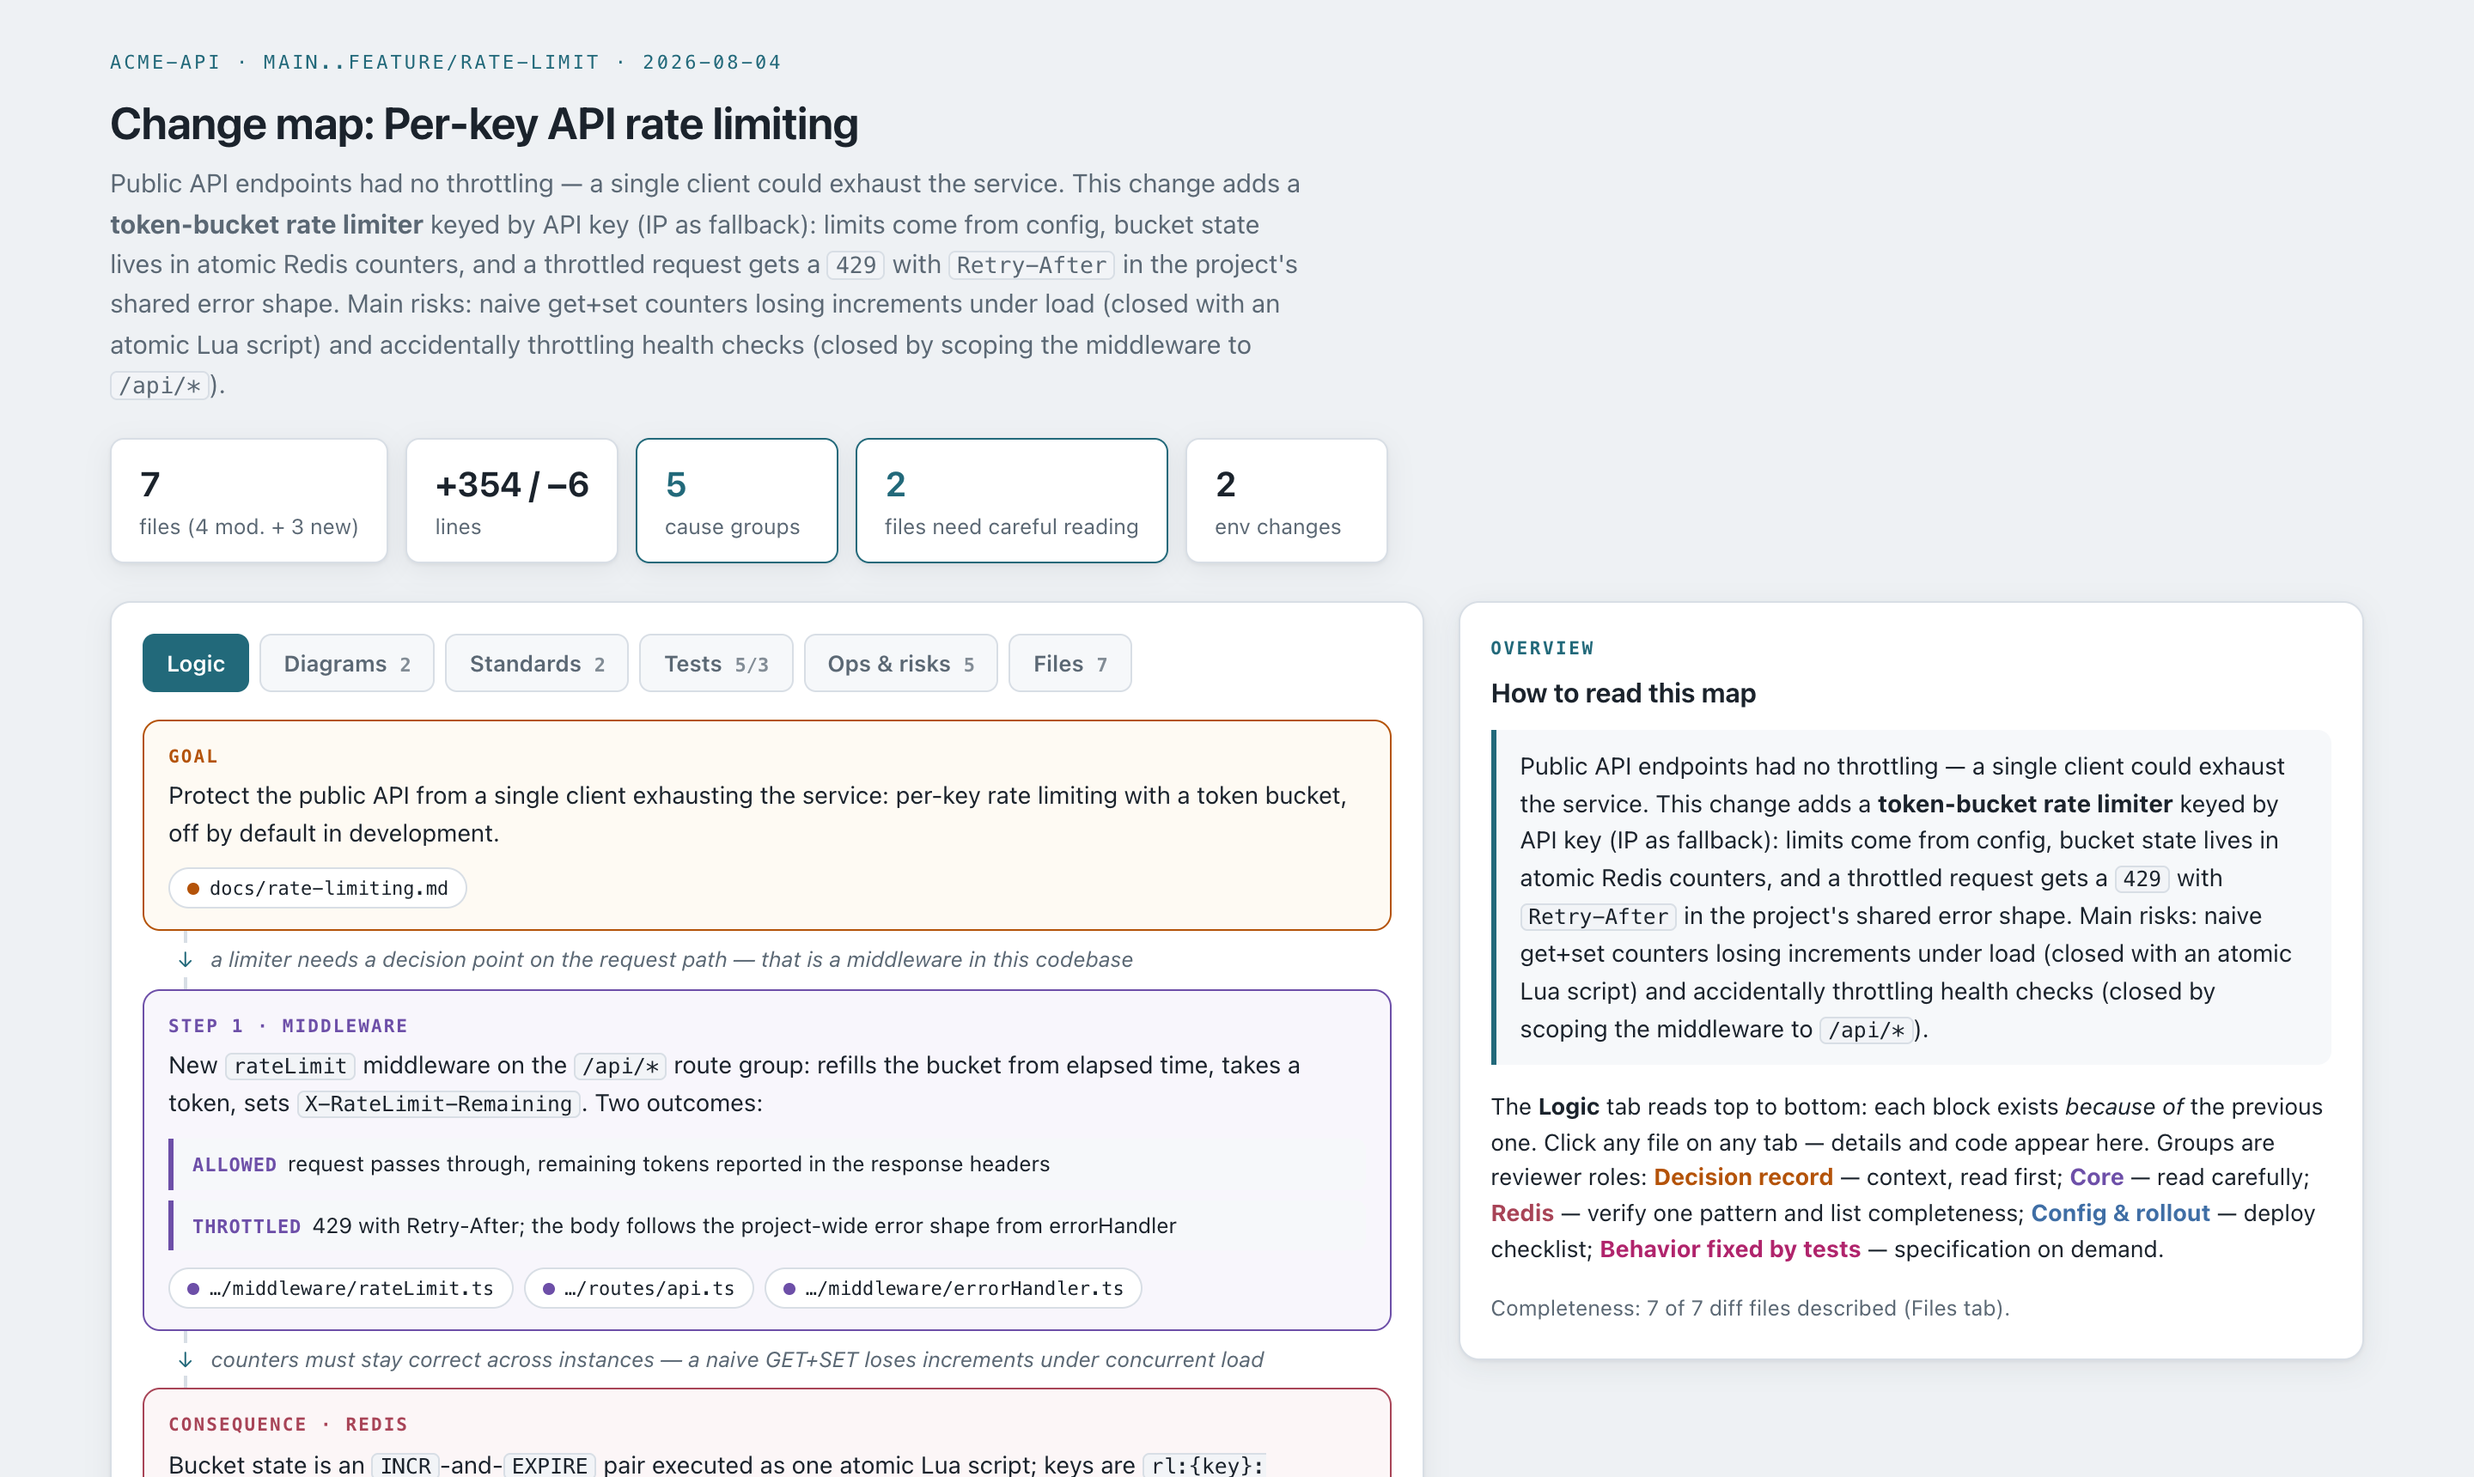
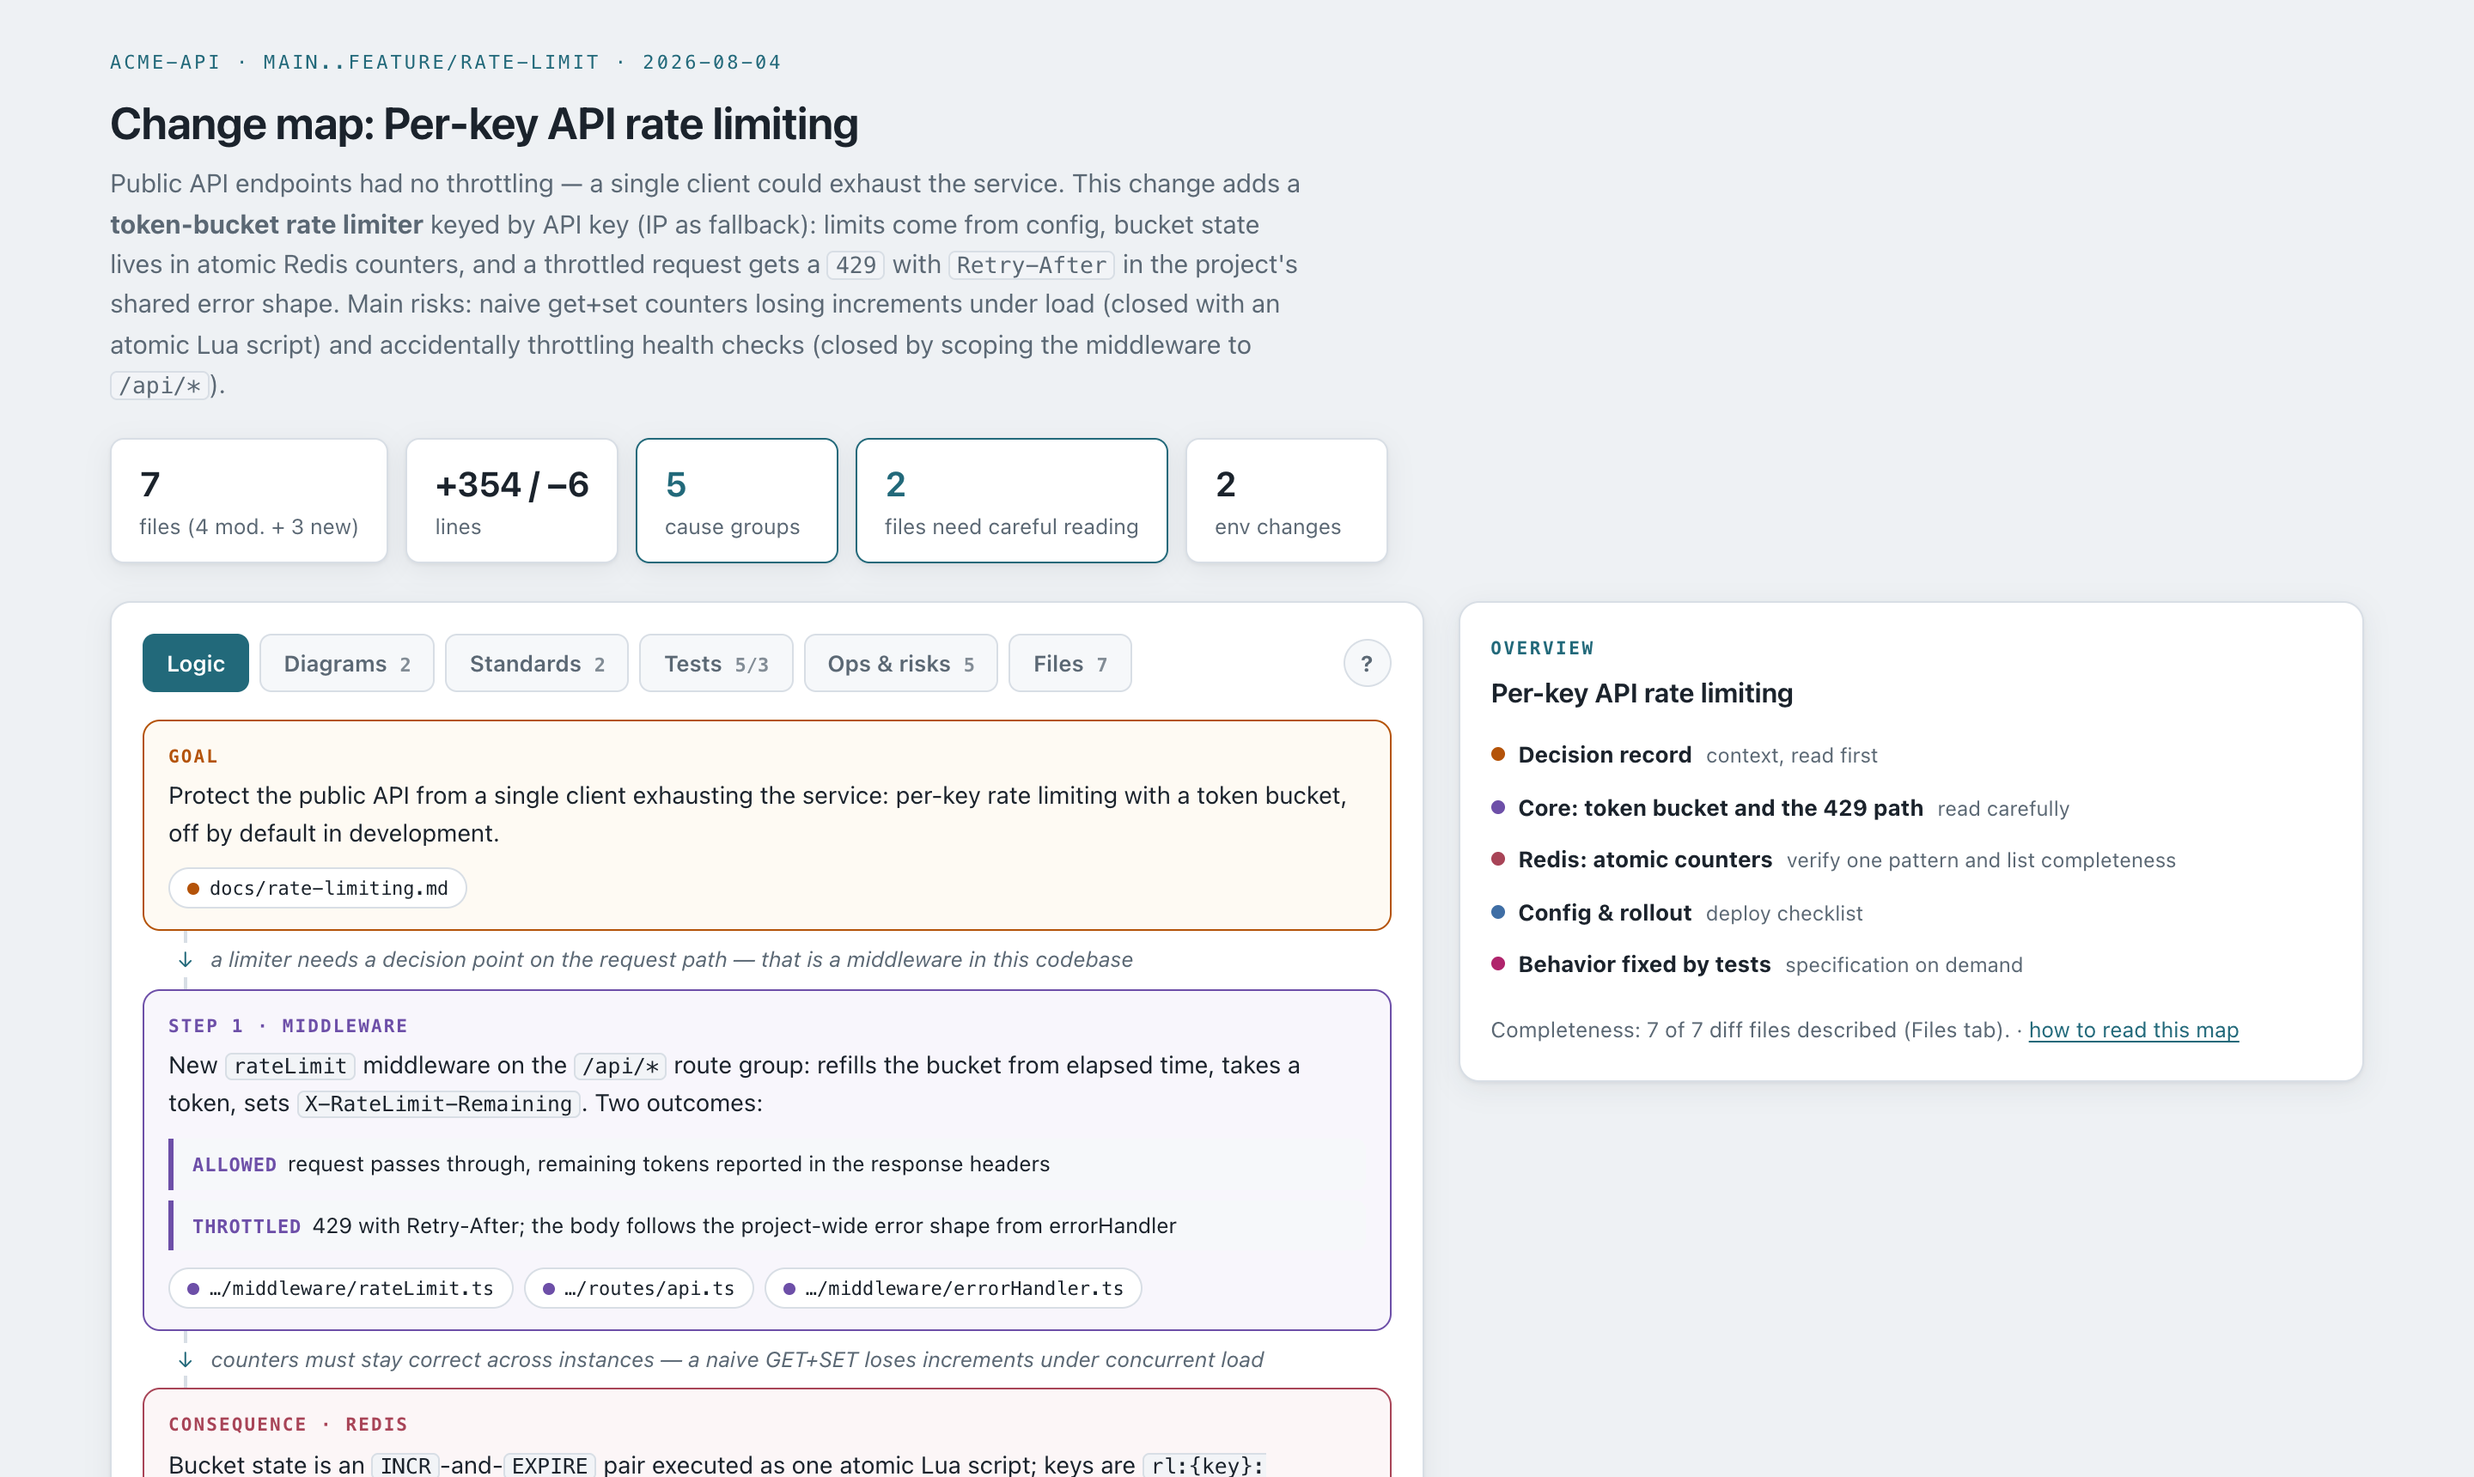
0.3.0: compact inspector overview + er-diff diagrams for migrations
- Viewer: "How to read this map" prose moved into a help dialog (? button
  in the tabs row + link under the legend); the default inspector is a
  compact clickable group legend with reviewer roles and the completeness
  line — no more duplicated intent text.
- New er-diff diagram kind: schema-changing migrations now REQUIRE a
  mermaid erDiagram of the affected tables (attribute-comment diff
  marking: "+ added" / "- removed" / "~ was: ..."), scoped to affected
  tables and their direct relations only.
- README screenshots re-captured with the new inspector.

Changed region(s): [[0.5938, 0.4622, 0.9375, 0.8936]]

diff --git a/templates/viewer.html b/templates/viewer.html
@@ -89,6 +89,19 @@
   .tab:focus-visible { outline: 2px solid var(--accent); outline-offset: 1px; }
   .tab.active { background: var(--accent); color: var(--accent-ink); border-color: var(--accent); }
   .tab .cnt { font-family: var(--mono); font-size: 11px; opacity: .75; margin-left: 4px; }
+  .help-btn { margin-left: auto; flex: none; width: 28px; height: 28px; align-self: center; border-radius: 99px; border: 1px solid var(--line); background: var(--surface-2); color: var(--muted); font: inherit; font-size: 13px; font-weight: 700; cursor: pointer; transition: border-color .12s, color .12s; }
+  .help-btn:hover { border-color: var(--accent); color: var(--accent); }
+  .help-btn:focus-visible { outline: 2px solid var(--accent); outline-offset: 1px; }
+  .glegend { margin: 0 0 14px; padding: 0; list-style: none; display: flex; flex-direction: column; gap: 2px; }
+  .gleg-row { display: flex; align-items: baseline; gap: 8px; width: 100%; font: inherit; font-size: 13px; background: none; border: none; padding: 4px 6px; margin: 0 -6px; border-radius: 6px; cursor: pointer; color: inherit; text-align: left; }
+  .gleg-row:hover { background: var(--surface-2); }
+  .gleg-row:focus-visible { outline: 2px solid var(--accent); outline-offset: 1px; }
+  .gleg-row .dot { flex: none; width: 8px; height: 8px; border-radius: 99px; position: relative; top: -1px; }
+  .gleg-row .gleg-role { color: var(--muted); font-size: 12px; }
+  .linklike { background: none; border: none; padding: 0; font: inherit; font-size: inherit; color: var(--accent); text-decoration: underline; text-underline-offset: 2px; cursor: pointer; }
+  .linklike:hover { filter: brightness(1.15); }
+  #helpBody { padding: 14px 18px 18px; font-size: 13.5px; }
+  #helpBody p { margin: 0 0 12px; }
 
   .pane-hint { color: var(--muted); font-size: 12.5px; margin: -6px 0 14px; }
 
@@ -312,6 +325,14 @@
   <div class="modal-body"><pre id="modalCode"></pre></div>
 </dialog>
 
+<dialog id="helpModal">
+  <div class="modal-head">
+    <span id="helpTitle"></span>
+    <button class="btn" id="helpClose"></button>
+  </div>
+  <div class="modal-body"><div id="helpBody"></div></div>
+</dialog>
+
 __MERMAID_BUNDLE__
 
 <script>
@@ -341,7 +362,8 @@ const I18N = {
     relsTitle: 'Links', back: '← overview', openFull: 'Open full file', fragment: 'fragment', close: 'Close',
     fold: (name) => `Collapse/expand: ${name}`,
     overviewTag: 'Overview', overviewTitle: 'How to read this map',
-    overviewBody: 'The <b>Logic</b> tab reads top to bottom: each block exists <i>because of</i> the previous one. Click any file on any tab — details and code appear here. Groups are reviewer roles: ',
+    overviewBody: 'The <b>Logic</b> tab reads top to bottom: each block exists <i>because of</i> the previous one. Click any file on any tab — details and code appear in the inspector. Groups are reviewer roles:',
+    helpLink: 'how to read this map',
     completeness: (n) => `Completeness: ${n} of ${n} diff files described (Files tab).`,
     roles: { read: 'read carefully', 'verify-pattern': 'verify one pattern and list completeness', context: 'context, read first', ops: 'deploy checklist', spec: 'specification on demand', plumbing: 'mechanics' },
   },
@@ -367,7 +389,8 @@ const I18N = {
     relsTitle: 'Связи', back: '← к обзору', openFull: 'Открыть файл целиком', fragment: 'фрагмент', close: 'Закрыть',
     fold: (name) => `Свернуть/развернуть: ${name}`,
     overviewTag: 'Обзор', overviewTitle: 'Как читать эту карту',
-    overviewBody: 'Вкладка <b>«Логика»</b> читается сверху вниз: каждый блок существует <i>из-за</i> предыдущего. Клик по файлу в любой вкладке — детали и код здесь. Группы — это роли: ',
+    overviewBody: 'Вкладка <b>«Логика»</b> читается сверху вниз: каждый блок существует <i>из-за</i> предыдущего. Клик по файлу в любой вкладке — детали и код в инспекторе. Группы — это роли:',
+    helpLink: 'как читать карту',
     completeness: (n) => `Полнота: ${n} из ${n} файлов диффа описаны (вкладка «Файлы»).`,
     roles: { read: 'читать внимательно', 'verify-pattern': 'проверить паттерн и полноту', context: 'контекст, читать первым', ops: 'чеклист деплоя', spec: 'спецификация по запросу', plumbing: 'механика' },
   },
@@ -438,6 +461,14 @@ for (const [id, name, cnt] of PANES) {
   b.dataset.pane = id
   tabsEl.appendChild(b)
 }
+const helpBtn = document.createElement('button')
+helpBtn.className = 'help-btn'
+helpBtn.textContent = '?'
+helpBtn.title = L.overviewTitle
+helpBtn.setAttribute('aria-label', L.overviewTitle)
+helpBtn.addEventListener('click', () => helpModal.showModal())
+tabsEl.appendChild(helpBtn)
+
 let diagramsRendered = false
 function setTab(id) {
   for (const b of tabsEl.children) b.classList.toggle('active', b.dataset.pane === id)
@@ -666,15 +697,17 @@ function showGroup(g) {
     <div class="actions"><button class="btn" id="backBtn">${L.back}</button></div>`
   document.getElementById('backBtn').addEventListener('click', showOverview)
 }
+// The default inspector is a compact group legend — the long "how to read"
+// prose lives in the help dialog (the "?" button), not on screen by default.
+const legendHTML = () => `<ul class="glegend">${RM.groups.map(g => `
+  <li><button class="gleg-row" data-group="${esc(g.id)}"><span class="dot" style="background:${gcolor(g.id)}"></span><b>${esc(g.name)}</b><span class="gleg-role">${esc(L.roles[g.role] || g.role)}</span></button></li>`).join('')}</ul>`
 function showOverview() {
   setActive(null)
   inspector.innerHTML = `
     <p class="insp-tag" style="color:var(--accent)">${L.overviewTag}</p>
-    <h3 class="prose">${L.overviewTitle}</h3>
-    <div class="why">${RM.intent}</div>
-    <p style="font-size:13.5px">${L.overviewBody}${RM.groups.map(g =>
-      `<b style="color:${gcolor(g.id)}">${esc(g.name.split(':')[0])}</b> — ${esc(L.roles[g.role] || g.role)}`).join('; ')}.</p>
-    <p class="note">${L.completeness(RM.manifest.length)}</p>`
+    <h3 class="prose">${esc(RM.meta.title || RM.meta.project)}</h3>
+    ${legendHTML()}
+    <p class="note">${L.completeness(RM.manifest.length)} · <button class="linklike" data-help>${L.helpLink}</button></p>`
 }
 function setActive(id) {
   activeId = id
@@ -691,6 +724,16 @@ function openFull(path) {
 document.getElementById('modalClose').addEventListener('click', () => modal.close())
 modal.addEventListener('click', e => { if (e.target === modal) modal.close() })
 
+const helpModal = document.getElementById('helpModal')
+document.getElementById('helpTitle').textContent = L.overviewTitle
+document.getElementById('helpClose').textContent = L.close
+document.getElementById('helpBody').innerHTML = `
+  <p>${L.overviewBody}</p>
+  ${legendHTML()}
+  <p class="note">${L.completeness(RM.manifest.length)}</p>`
+document.getElementById('helpClose').addEventListener('click', () => helpModal.close())
+helpModal.addEventListener('click', e => { if (e.target === helpModal) helpModal.close() })
+
 // File navigation from any tab: [data-goto] chips and mermaid click directives.
 function gotoFile(path) {
   const gid = fileGroup[path]
@@ -699,7 +742,14 @@ function gotoFile(path) {
 }
 document.addEventListener('click', (e) => {
   const el = e.target.closest('[data-goto]')
-  if (el) gotoFile(el.dataset.goto)
+  if (el) return gotoFile(el.dataset.goto)
+  const gl = e.target.closest('[data-group]')
+  if (gl) {
+    const g = RM.groups.find((x) => x.id === gl.dataset.group)
+    if (g) { helpModal.close(); showGroup(g) }
+    return
+  }
+  if (e.target.closest('[data-help]')) helpModal.showModal()
 })
 // Mermaid binds `click <id> call whydiffOpen("<path>")` to this global.
 window.whydiffOpen = gotoFile

diff --git a/agents/diagrammer.md b/agents/diagrammer.md
@@ -39,6 +39,21 @@ Kinds and when to use them:
   real actors (user, services, DB, external APIs); use `alt/else` for branches.
 - `components` — where state lives / sources of truth changed. `flowchart LR`
   with subgraphs for stores; mark new/changed elements with the same classDefs.
+- `er-diff` — the DATA SHAPE changed: the diff contains schema migrations, ORM
+  entity/schema files, or DDL. `erDiagram` with ONLY the affected tables and
+  their direct relations — never the whole schema. erDiagram has no classDef
+  styling, so diff-mark via attribute comments:
+  ```
+  users {
+    string email "+ added"
+    int legacy_score "- removed"
+    string plan "~ was: enum tier"
+  }
+  ```
+  The caption names the migration file(s) and states the marking convention.
+  When the manifest contains migrations that change table structure, an
+  er-diff is REQUIRED (this is the one exception to the budget rule below);
+  skip it only for data-only migrations (backfills) that change no shape.
 
 **Drill-down clicks** (flowchart kinds only — `flow-diff` and `components`;
 `sequenceDiagram` has no click support): for every node that represents ONE

diff --git a/CHANGELOG.md b/CHANGELOG.md
@@ -4,6 +4,20 @@ Notable changes to the whydiff plugin. Versions follow semver; the plugin
 version in `.claude-plugin/plugin.json` must be bumped for installed users
 to receive an update.
 
+## [0.3.0] — 2026-08-04
+
+### Added
+- `er-diff` diagram kind: when the diff contains schema-changing migrations,
+  the diagrammer must produce a mermaid `erDiagram` of the affected tables
+  (diff marking via attribute comments: `"+ added"` / `"- removed"` /
+  `"~ was: …"`), only the affected tables and their direct relations.
+
+### Changed
+- Viewer: the "How to read this map" prose moved out of the default inspector
+  into a help dialog (the `?` button in the tabs row and a link under the
+  legend). The default inspector is now a compact clickable group legend with
+  reviewer roles and the completeness line.
+
 ## [0.2.0] — 2026-08-04
 
 ### Added

diff --git a/skills/whydiff/SKILL.md b/skills/whydiff/SKILL.md
@@ -164,6 +164,7 @@ phase) so performance can be discussed with data.
 2. Every edge is a labeled triple — an unlabeled arrow carries no information.
 3. The story is a causal chain; each `link` says WHY the next block exists.
 4. Diagrams only where control/data flow changes; one graph with diff marking,
-   never two side-by-side versions.
+   never two side-by-side versions. Exception that is REQUIRED, not optional:
+   schema-changing migrations get an `er-diff` (tables/columns before/after).
 5. Empty ops sections are information ("no env changes") — never omit `ops`.
 6. Completeness is proven by `validate.mjs`, not asserted.
